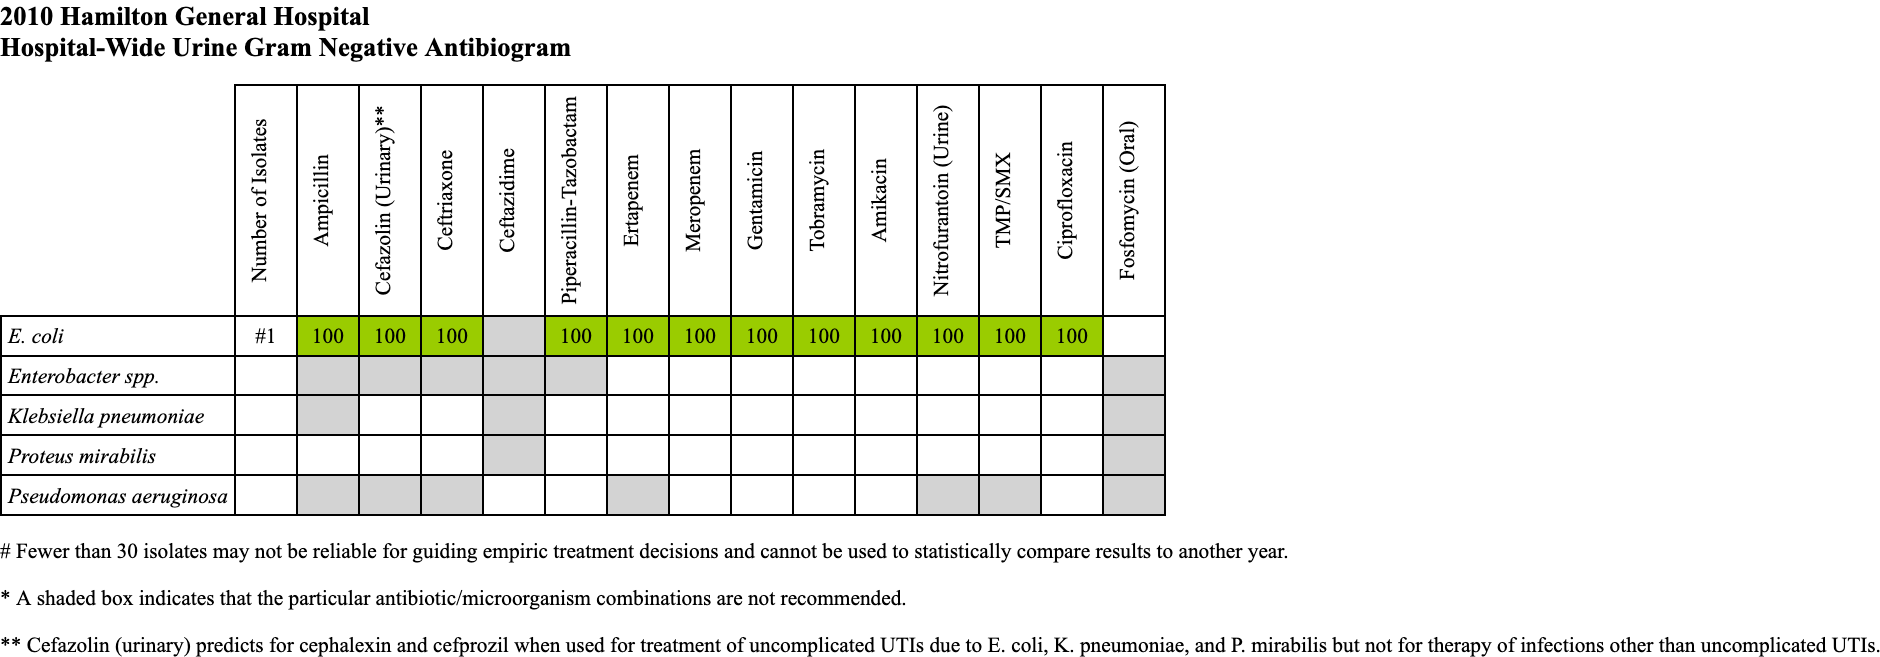
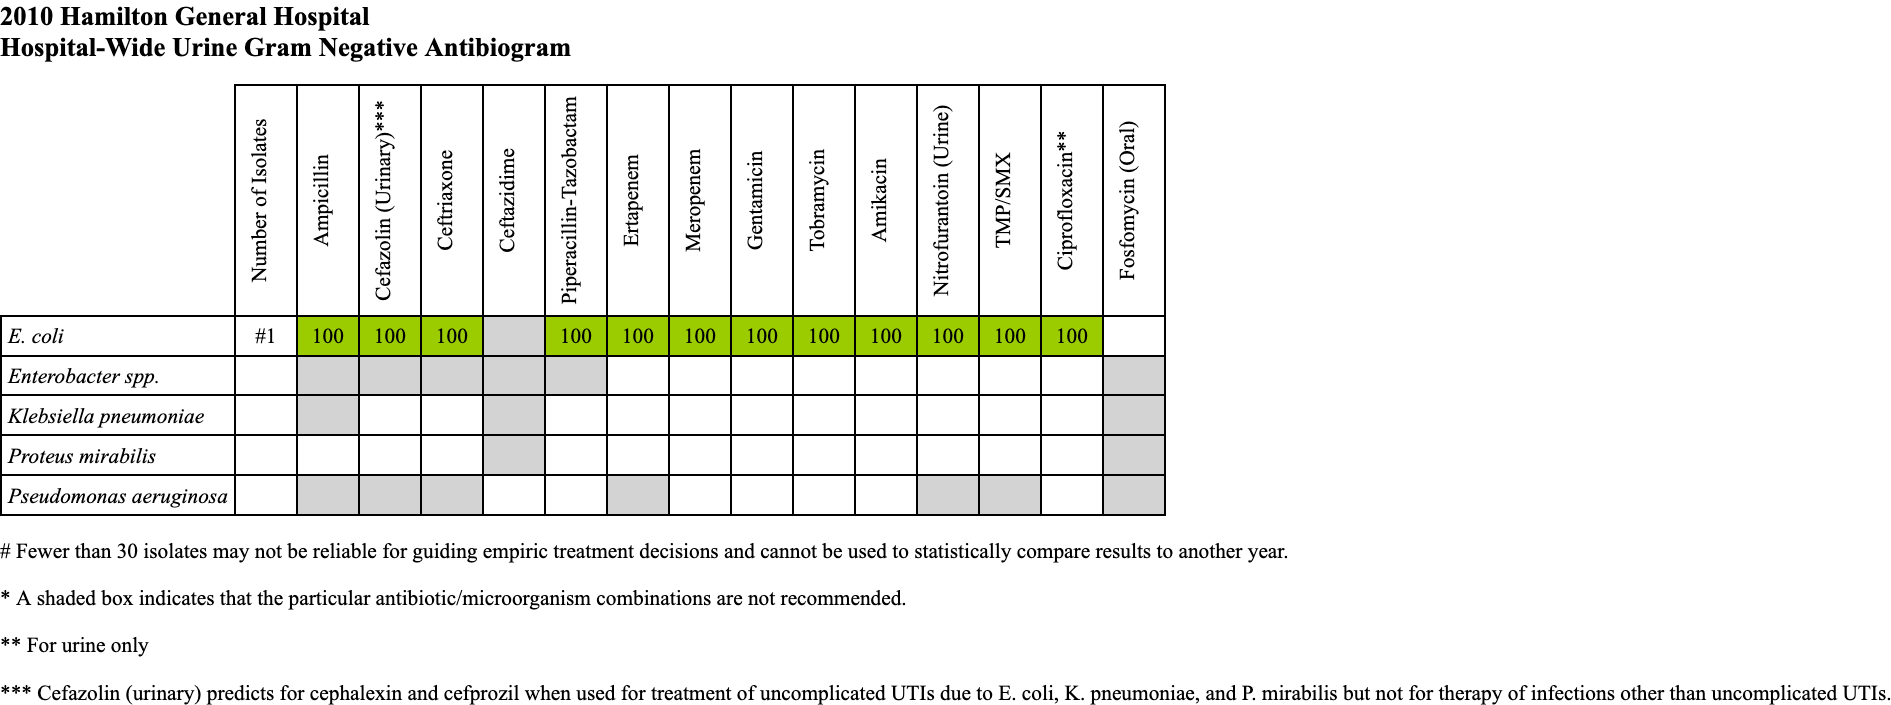
urine antibiogram update

Changed region(s): [[0.0, 0.0, 0.6787, 0.7915], [0.0, 0.8219, 1.0, 1.0]]

diff --git a/poc.py b/poc.py
@@ -176,7 +176,8 @@ def flag_column(df, title_type, gp_or_gn):
             df = df.rename(columns={"High-Level gentamicin": "High-Level gentamicin**"})
     if " Urine " in title_type:
         if "Gram Negative" in gp_or_gn:
-            df = df.rename(columns={"Cefazolin": "Cefazolin (Urinary)**"})
+            df = df.rename(columns={"Cefazolin": "Cefazolin (Urinary)***"})
+            df = df.rename(columns={"Ciprofloxacin": "Ciprofloxacin**"})
         if "Gram Positive" in gp_or_gn:
             df = df.rename(columns={"Fosfomycin (Oral)": "Fosfomycin (Oral)**"})
             df = df.rename(columns={"Ciprofloxacin": "Ciprofloxacin***"})
@@ -279,8 +280,9 @@ def add_footer(title_type, gp_or_gn):
         pass
     if title_type == " Urine ":
         if "Gram Negative" in gp_or_gn:
-            footer = "<p> ** Cefazolin (urinary) predicts for cephalexin and cefprozil when used for treatment of uncomplicated UTIs due to E. coli, K. pneumoniae, and P. mirabilis but not for  therapy of infections other than uncomplicated UTIs. <p>"
-            footer = footer_last + footer_first + footer
+            footer = "<p> *** Cefazolin (urinary) predicts for cephalexin and cefprozil when used for treatment of uncomplicated UTIs due to E. coli, K. pneumoniae, and P. mirabilis but not for  therapy of infections other than uncomplicated UTIs. <p>"
+            footer_2 = "<p> ** For urine only </p>"
+            footer = footer_last + footer_first + footer_2 + footer 
             return footer
         elif "Gram Positive" in gp_or_gn:
             footer_1 = "<p> ** For Enterococcus faecalis only. </p>"
